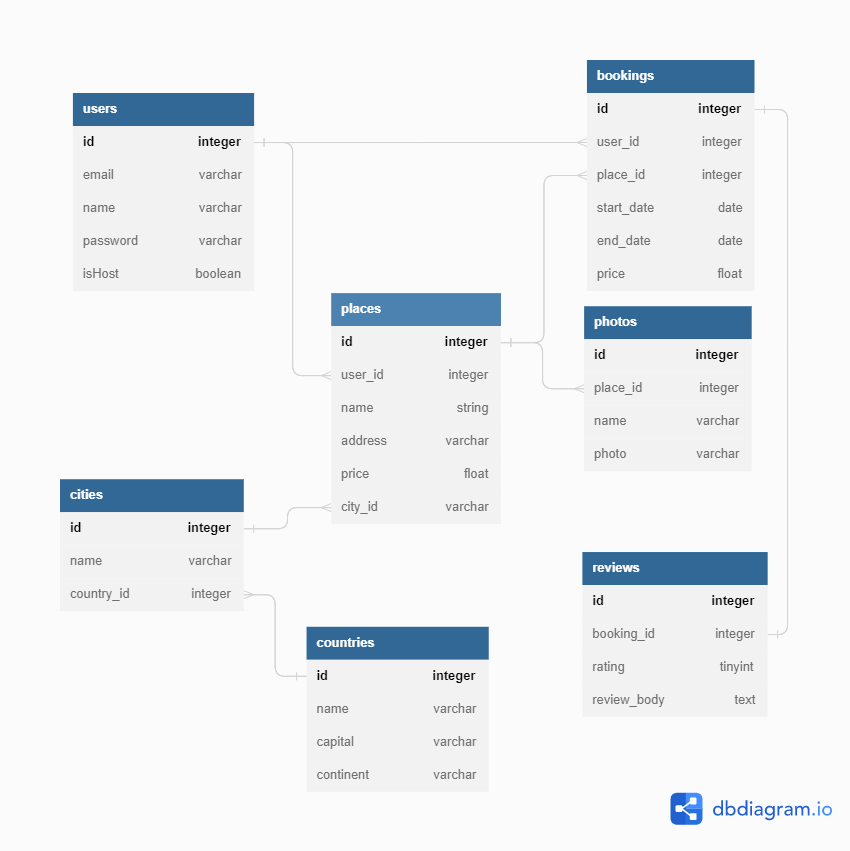
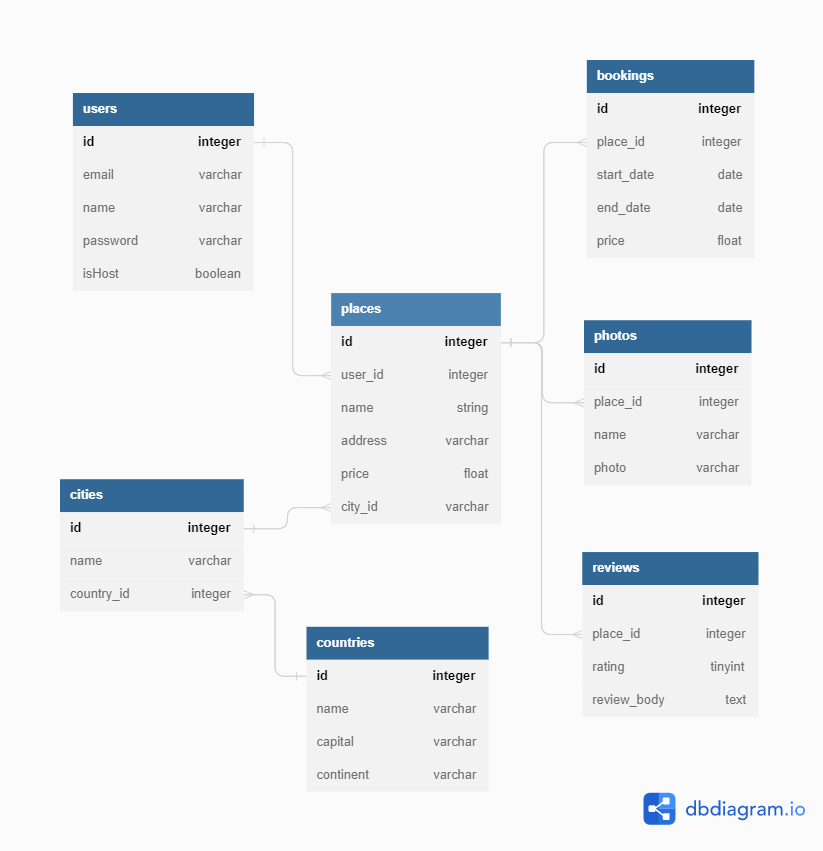
tabela booking

diff --git a/src/migrations/20230128131340_create_booking.js b/src/migrations/20230128131340_create_booking.js
@@ -1,0 +1,29 @@
+
+
+const booking = [
+    { start_date: '2022-01-01 10:00:00', end_date: '2022-01-01 12:00:00', place_id: 1, price: 10.0 },
+    { start_date: '2022-01-02 14:00:00', end_date: '2022-01-02 16:00:00', place_id: 1, price: 20.0 },
+    { start_date: '2022-01-03 18:00:00', end_date: '2022-01-03 20:00:00', place_id: 2, price: 30.0 },
+    { start_date: '2022-01-04 10:00:00', end_date: '2022-01-04 12:00:00', place_id: 2, price: 40.0 },
+    { start_date: '2022-01-05 14:00:00', end_date: '2022-01-05 16:00:00', place_id: 3, price: 50.0 }   
+
+]
+
+exports.up = function (knex) {
+    return knex.schema.createTable('booking', table => {
+        table.increments('id').primary()
+        table.datetime('start_date').notNullable()
+        table.datetime('end_date').notNullable()
+        table.decimal('price',10,2).notNullable()
+        table
+            .integer('place_id')
+            .unsigned()
+            .references('id')
+            .inTable('places')
+    }).then(() => knex('booking').insert(booking))
+}
+
+
+exports.down = function (knex) {
+    return knex.schema.dropTable('booking')
+}
